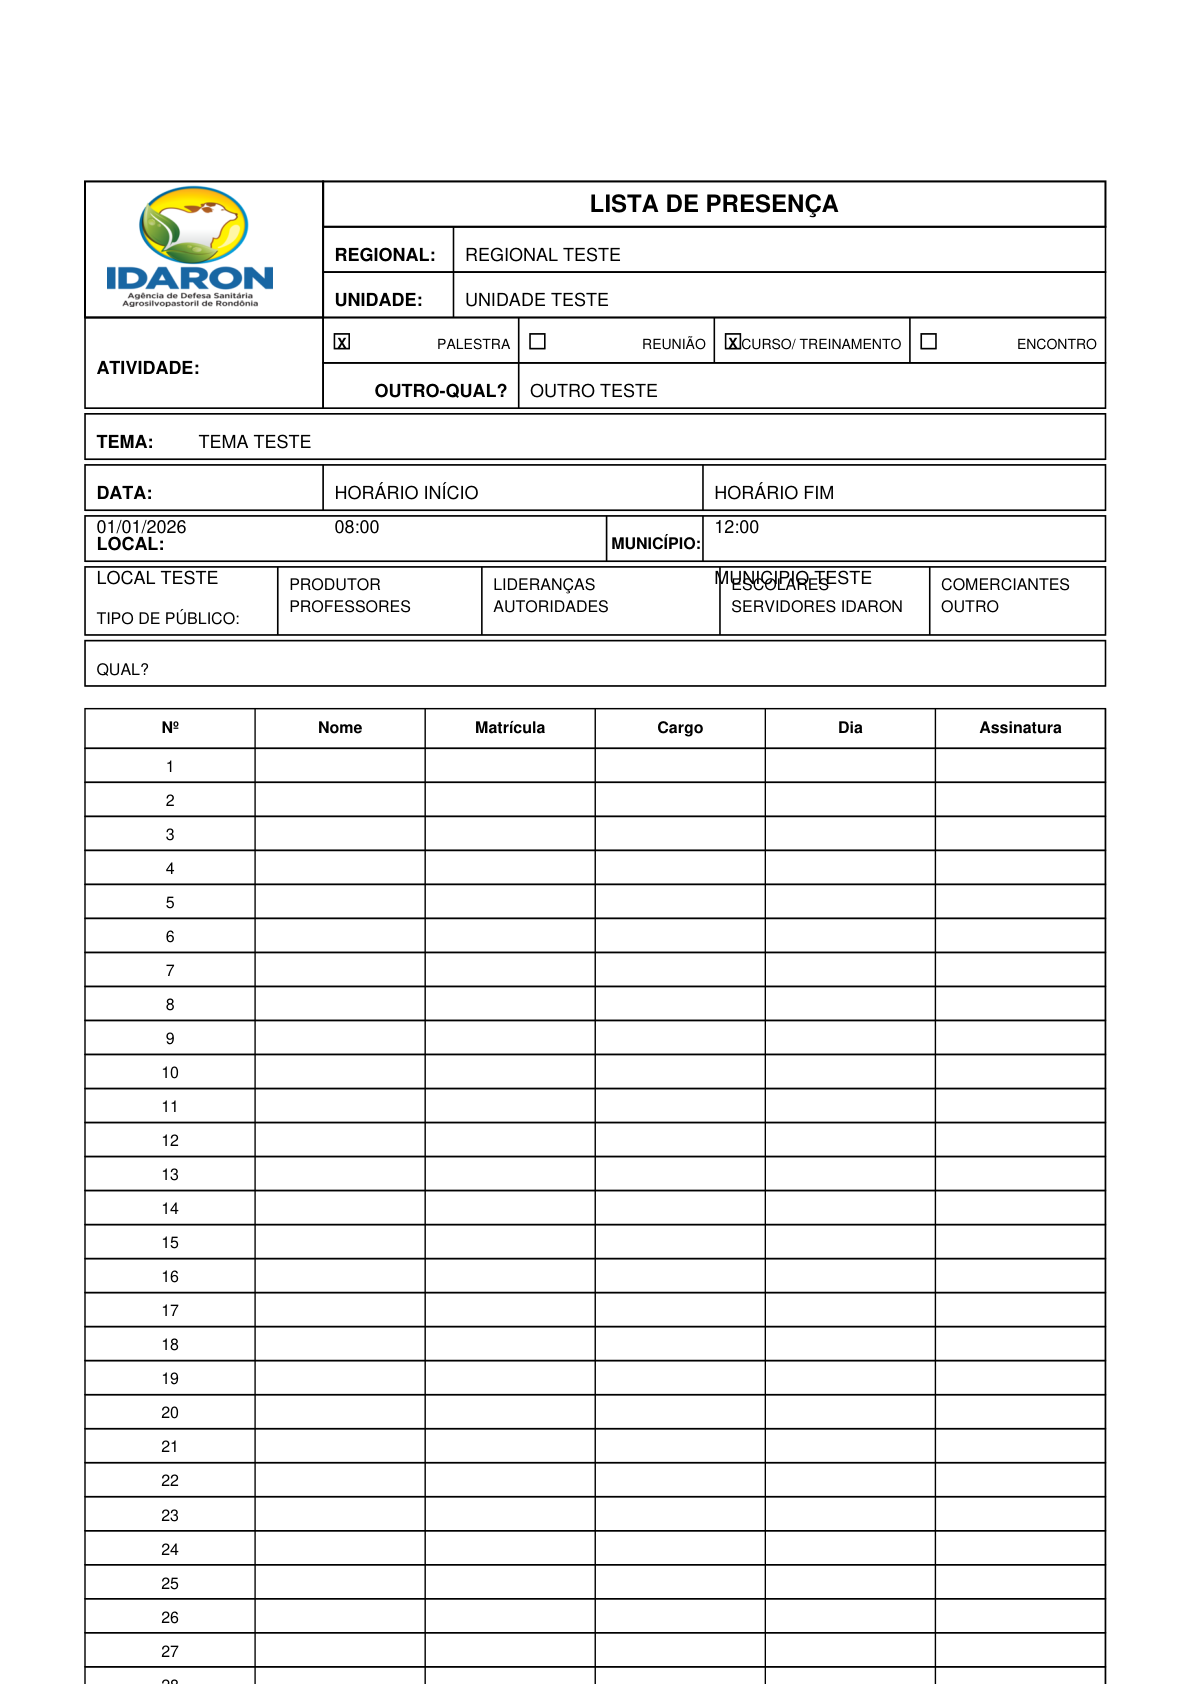
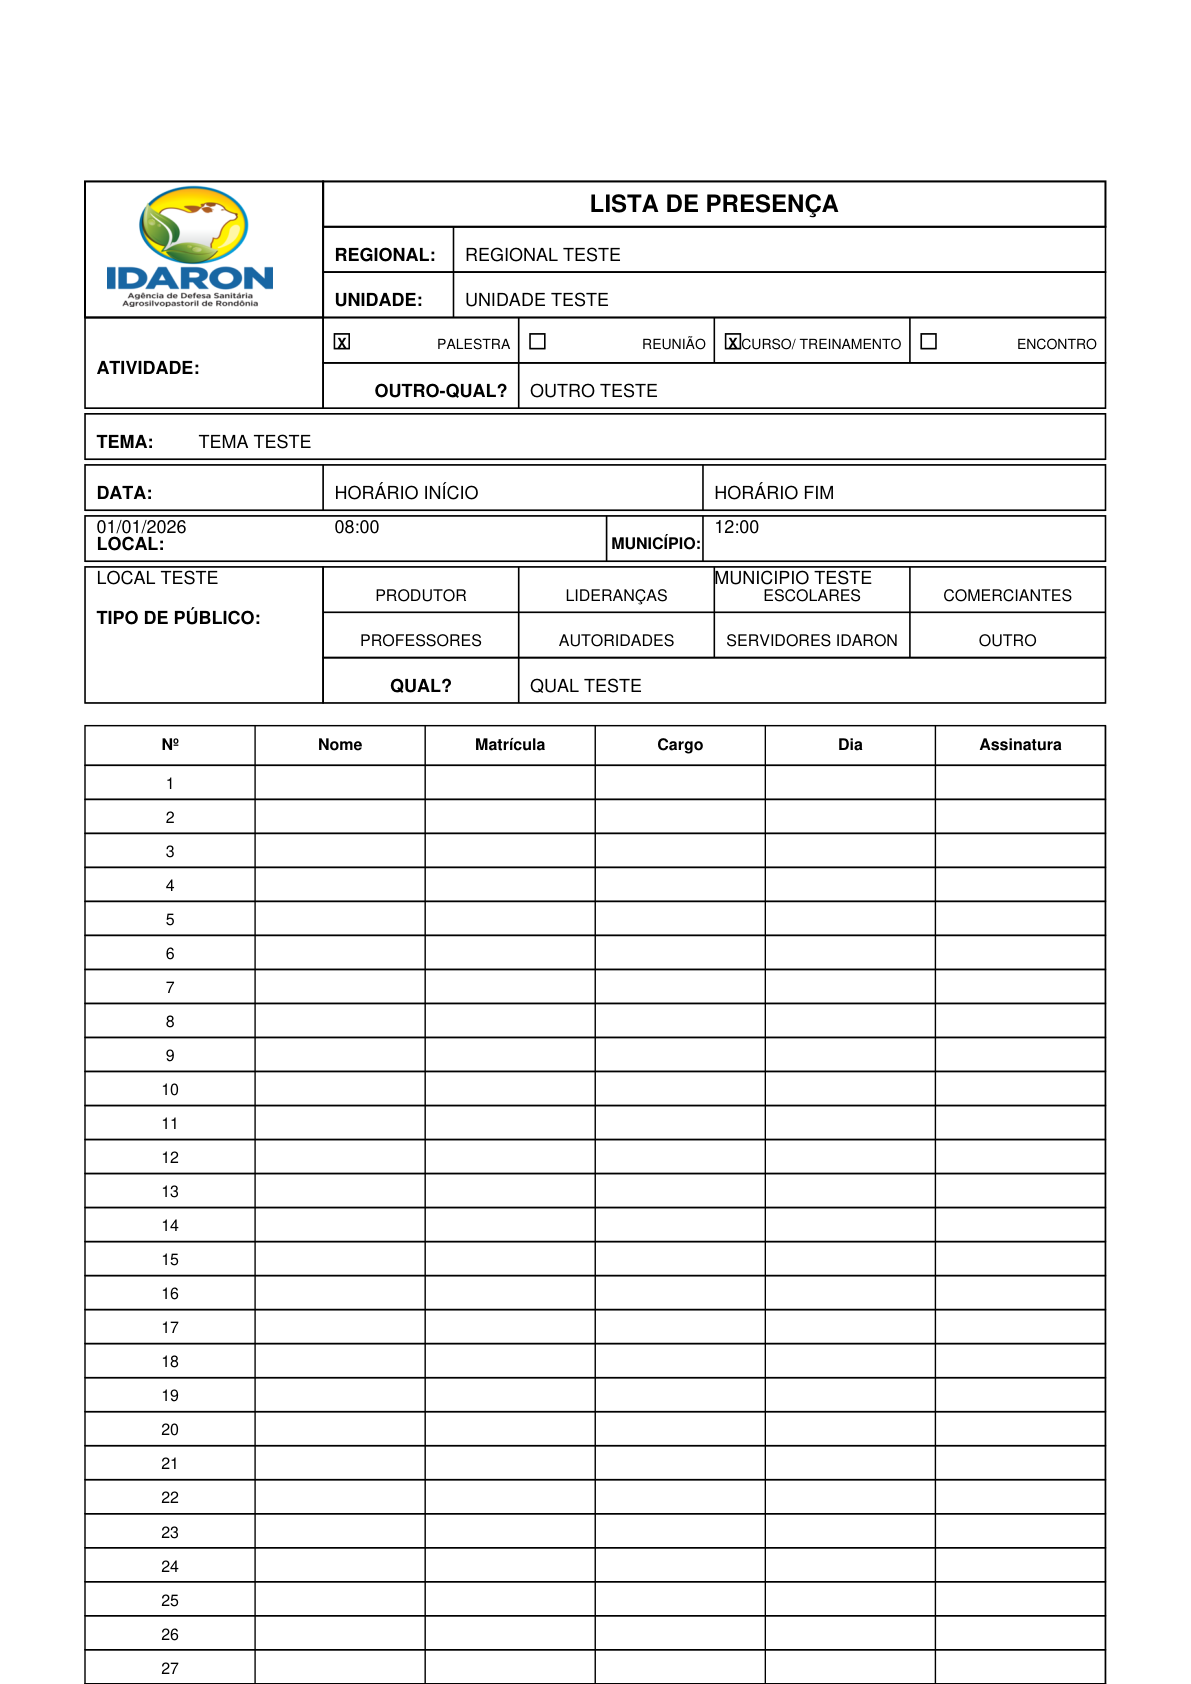
linha tipo de publico

Changed region(s): [[0.0621, 0.3397, 0.932, 1.0]]

diff --git a/pdf/lista_presenca.py b/pdf/lista_presenca.py
@@ -179,38 +179,40 @@ def _draw_header(
 
     y -= h + 1 * mm
     # TIPO DE PÚBLICO
-    h = 12 * mm
-    c.rect(x, y - h, largura_tabela, h, fill=0)
-    row1_y = y - 4 * mm
-    row2_y = y - 8 * mm
+    h = 8 * mm
+    altura_publico = h * 3
+    c.rect(x, y - altura_publico, logo_box_w, altura_publico, fill=0)
+    c.setFont('Helvetica-Bold', 9)
+    c.drawString(x + 2 * mm, y - h - 2 * mm, 'TIPO DE PÚBLICO:')
+
+    c.rect(area_campos_x, y - (2 * h), area_campos_w, 2 * h, fill=0)
+    publico_col1 = area_campos_x + area_campos_w / 4
+    publico_col2 = area_campos_x + area_campos_w / 2
+    publico_col3 = area_campos_x + (area_campos_w * 3 / 4)
+    c.line(publico_col1, y - (2 * h), publico_col1, y)
+    c.line(publico_col2, y - (2 * h), publico_col2, y)
+    c.line(publico_col3, y - (2 * h), publico_col3, y)
+    c.line(area_campos_x, y - h, area_campos_x + area_campos_w, y - h)
+
     c.setFont('Helvetica', 8)
-    c.drawString(x + 2 * mm, y - h + 2 * mm, 'TIPO DE PÚBLICO:')
+    c.drawCentredString((area_campos_x + publico_col1) / 2, y - h + 2 * mm, 'PRODUTOR')
+    c.drawCentredString((publico_col1 + publico_col2) / 2, y - h + 2 * mm, 'LIDERANÇAS')
+    c.drawCentredString((publico_col2 + publico_col3) / 2, y - h + 2 * mm, 'ESCOLARES')
+    c.drawCentredString((publico_col3 + area_campos_x + area_campos_w) / 2, y - h + 2 * mm, 'COMERCIANTES')
+    c.drawCentredString((area_campos_x + publico_col1) / 2, y - (2 * h) + 2 * mm, 'PROFESSORES')
+    c.drawCentredString((publico_col1 + publico_col2) / 2, y - (2 * h) + 2 * mm, 'AUTORIDADES')
+    c.drawCentredString((publico_col2 + publico_col3) / 2, y - (2 * h) + 2 * mm, 'SERVIDORES IDARON')
+    c.drawCentredString((publico_col3 + area_campos_x + area_campos_w) / 2, y - (2 * h) + 2 * mm, 'OUTRO')
 
-    # colunas para público
-    col0 = x + 34 * mm
-    col1 = x + 70 * mm
-    col2 = x + 112 * mm
-    col3 = x + 149 * mm
-    c.line(col0, y - h, col0, y)
-    c.line(col1, y - h, col1, y)
-    c.line(col2, y - h, col2, y)
-    c.line(col3, y - h, col3, y)
-
-    c.drawString(col0 + 2 * mm, row1_y, 'PRODUTOR')
-    c.drawString(col1 + 2 * mm, row1_y, 'LIDERANÇAS')
-    c.drawString(col2 + 2 * mm, row1_y, 'ESCOLARES')
-    c.drawString(col3 + 2 * mm, row1_y, 'COMERCIANTES')
-    c.drawString(col0 + 2 * mm, row2_y, 'PROFESSORES')
-    c.drawString(col1 + 2 * mm, row2_y, 'AUTORIDADES')
-    c.drawString(col2 + 2 * mm, row2_y, 'SERVIDORES IDARON')
-    c.drawString(col3 + 2 * mm, row2_y, 'OUTRO')
-
-    y -= h + 1 * mm
+    y -= 2 * h
     # QUAL
     h = 8 * mm
-    c.rect(x, y - h, largura_tabela, h, fill=0)
-    c.drawString(x + 2 * mm, y - h + 2 * mm, 'QUAL?')
-    c.drawString(x + 14 * mm, y - h + 2 * mm, str(qual))
+    c.rect(area_campos_x, y - h, area_campos_w, h, fill=0)
+    c.line(publico_col1, y - h, publico_col1, y)
+    c.setFont('Helvetica-Bold', 9)
+    c.drawCentredString((area_campos_x + publico_col1) / 2, y - h + 2 * mm, 'QUAL?')
+    c.setFont('Helvetica', 9)
+    c.drawString(publico_col1 + 2 * mm, y - h + 2 * mm, str(qual))
 
     return y - h - 4 * mm
 
